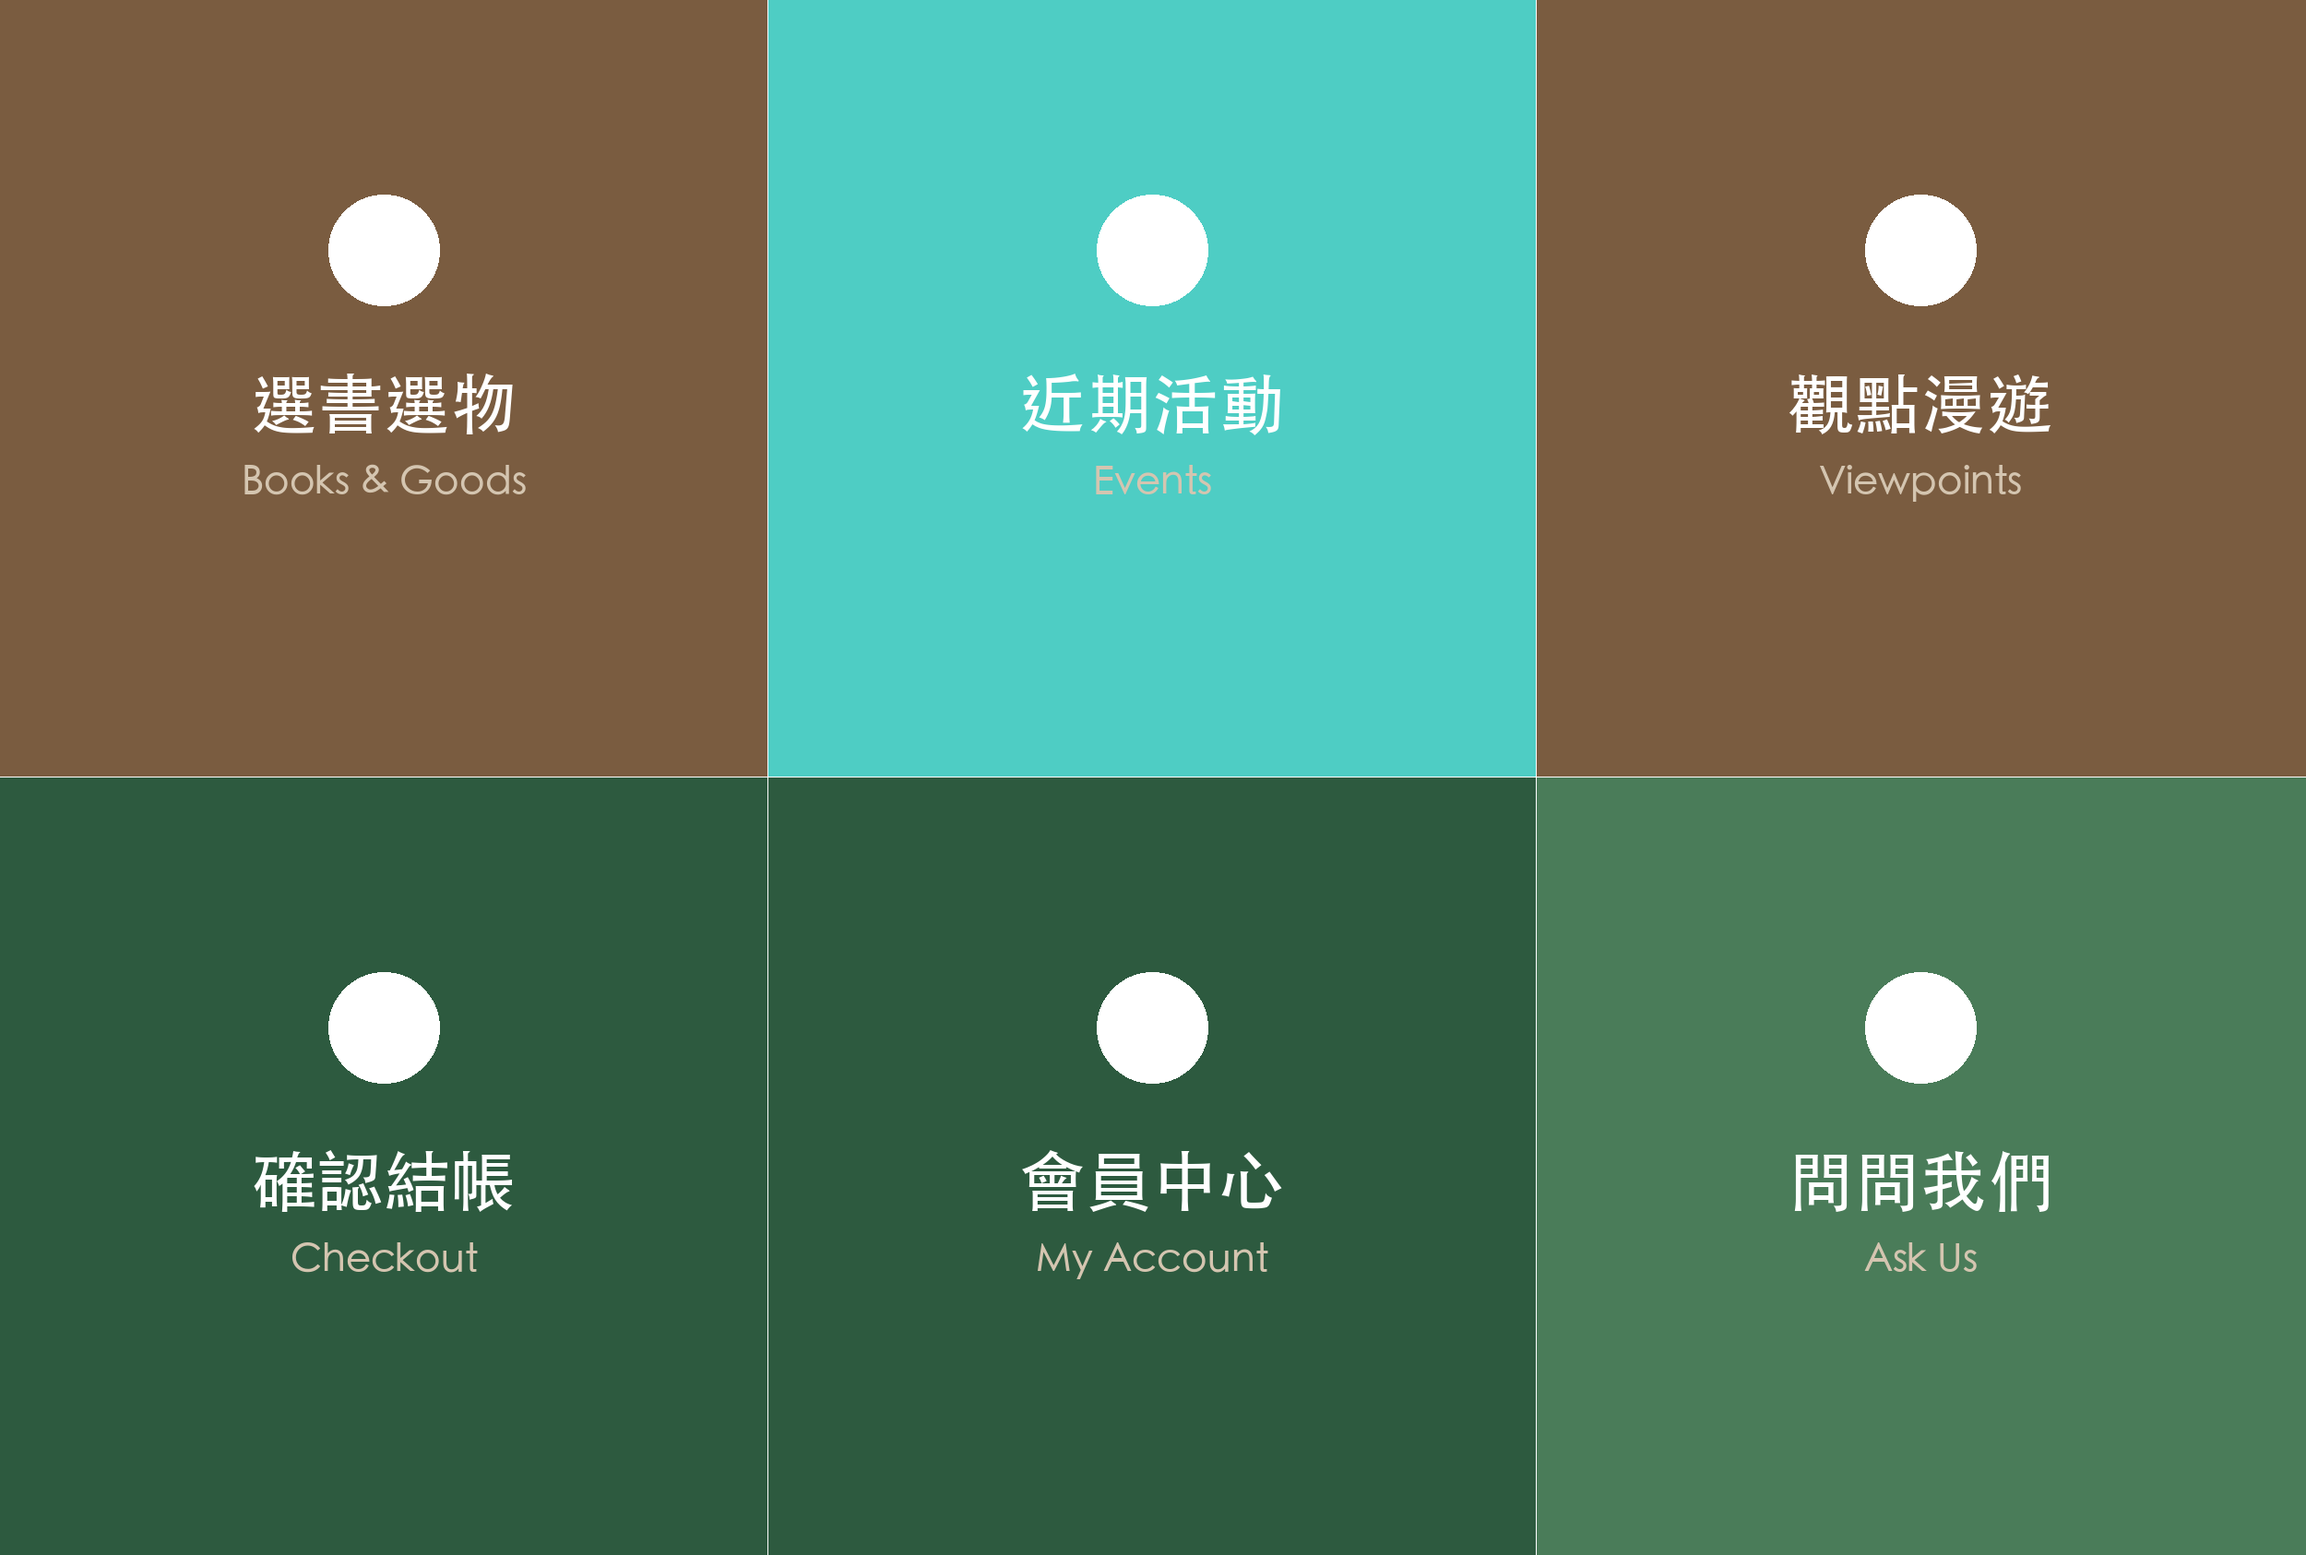
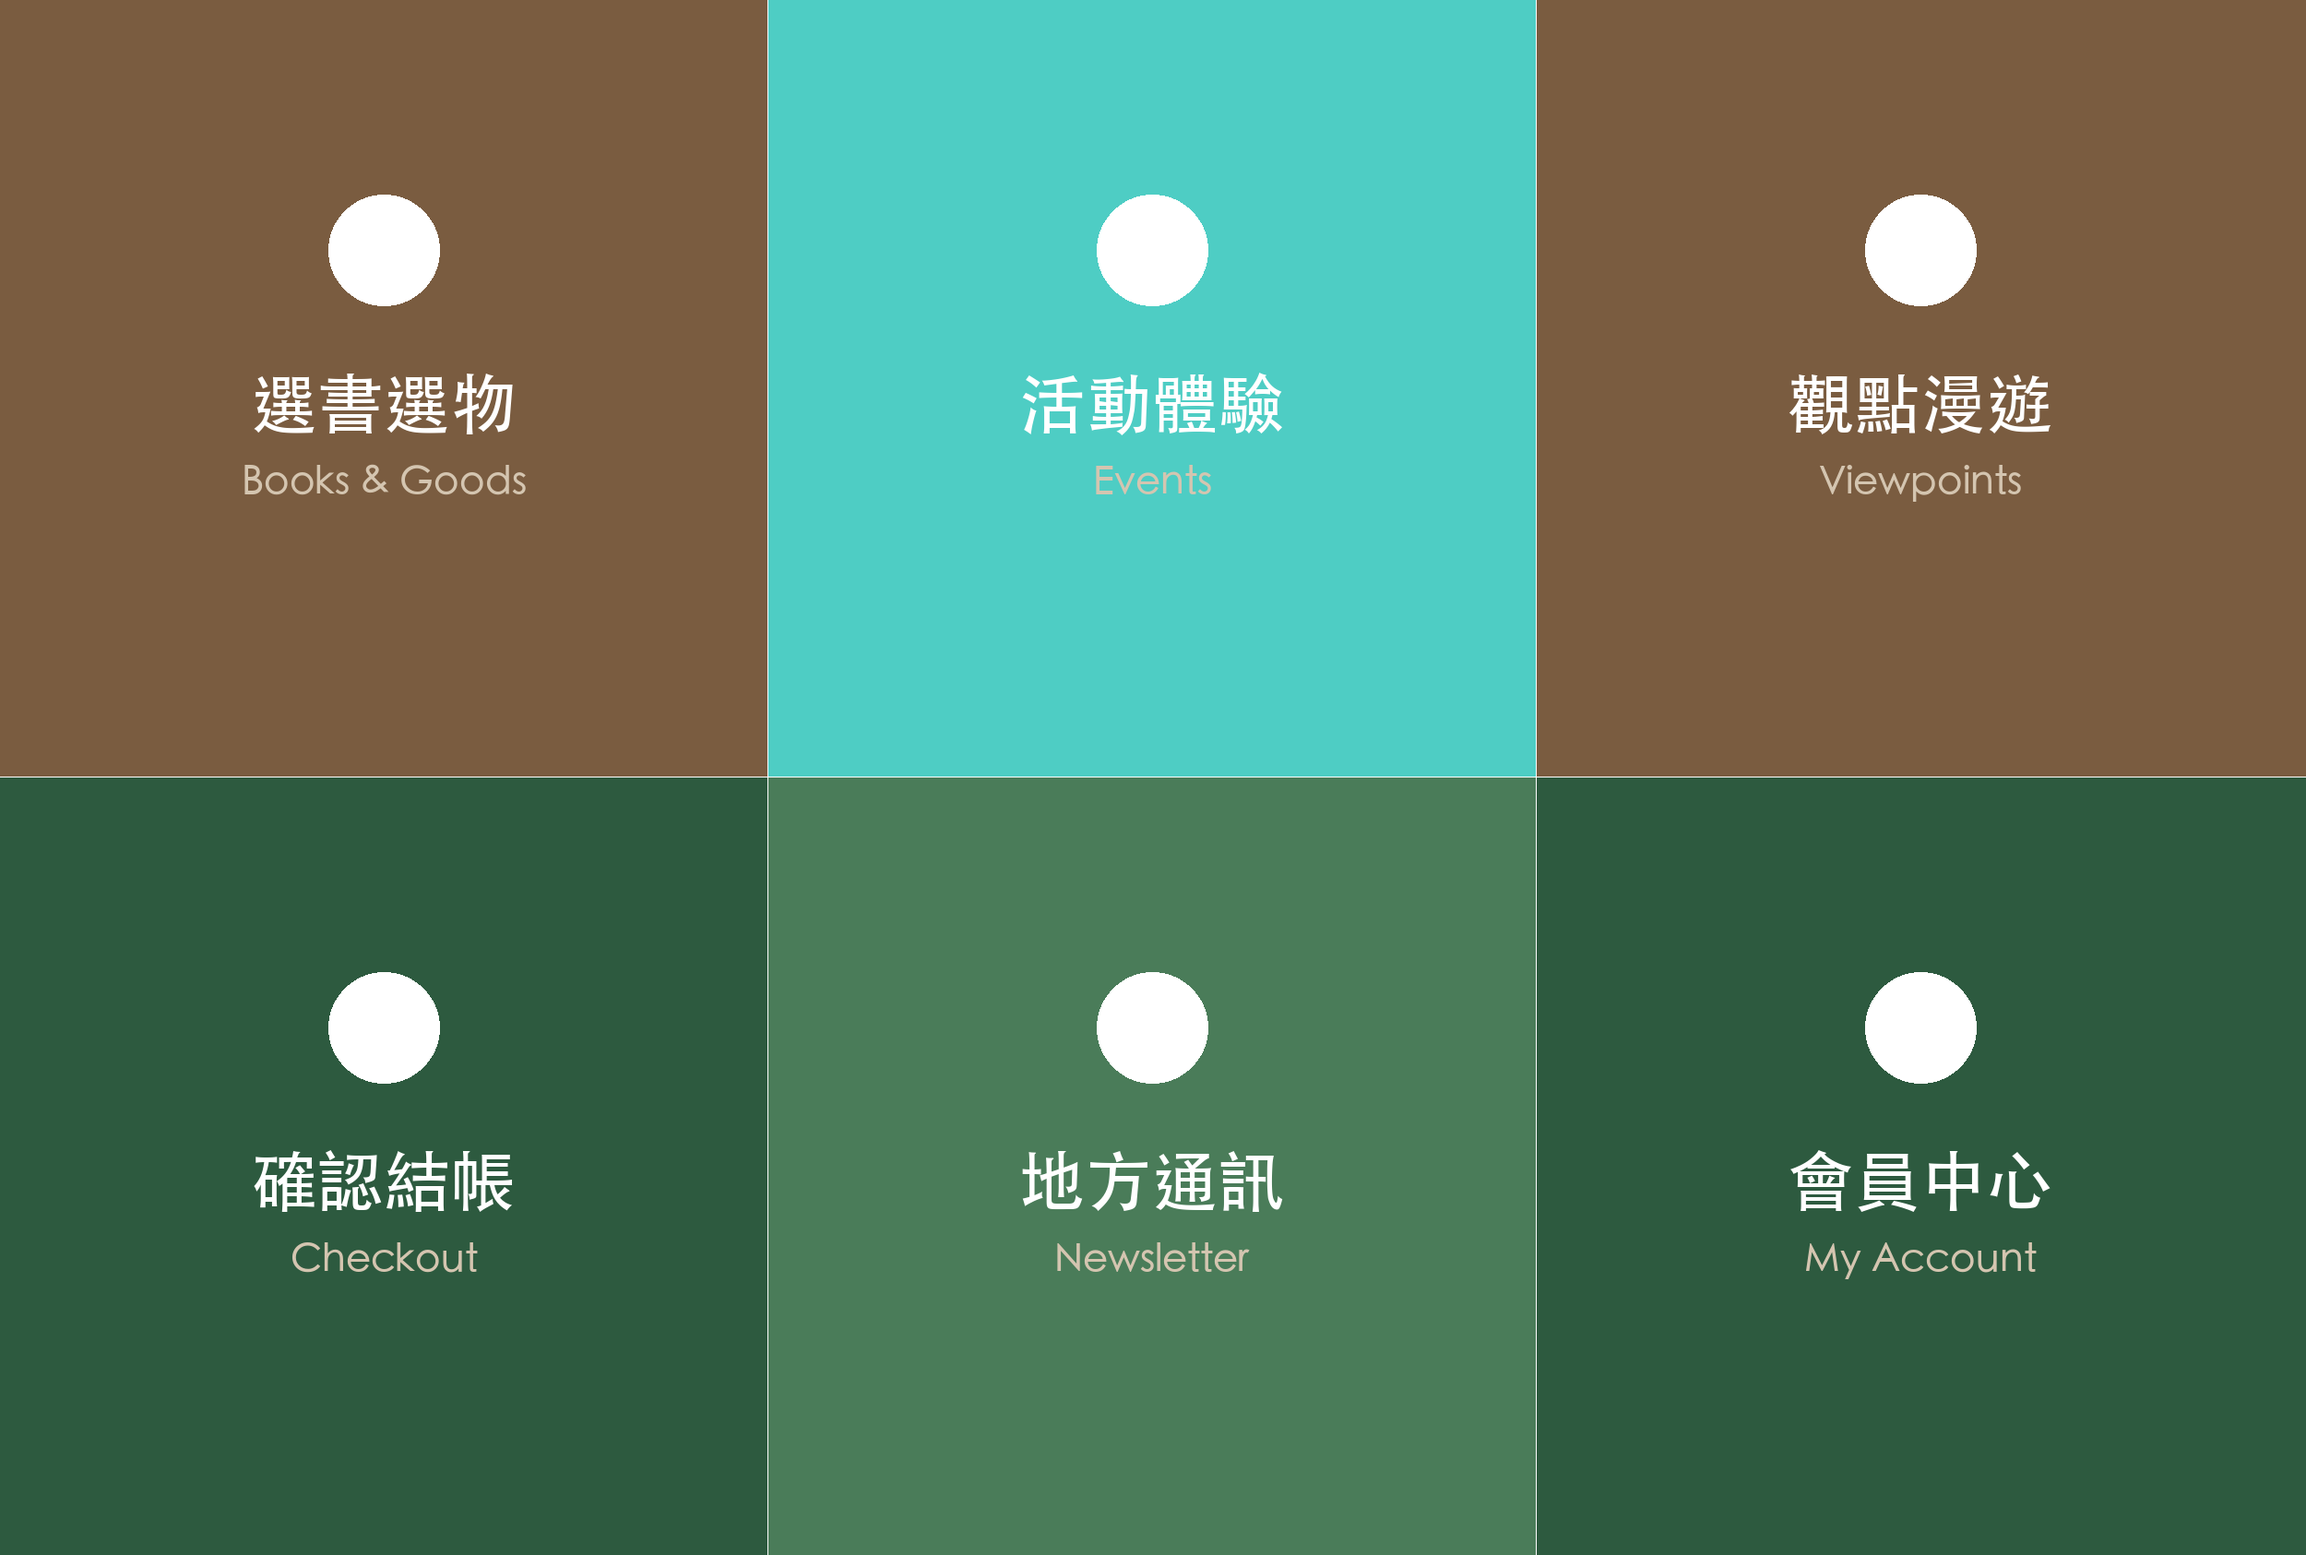
fix: sync/single maxDuration 30→60 秒（DB04 活動同步需更多時間）

diff --git a/scripts/setup-rich-menu.ts b/scripts/setup-rich-menu.ts
@@ -7,6 +7,8 @@
  */
 
 import { messagingApi } from "@line/bot-sdk";
+import * as fs from "fs";
+import * as path from "path";
 
 const TOKEN = process.env.LINE_CHANNEL_ACCESS_TOKEN;
 const LIFF_ID = process.env.NEXT_PUBLIC_LIFF_ID || "2009300819-5OyjRae6";
@@ -18,6 +20,7 @@ if (!TOKEN) {
 }
 
 const client = new messagingApi.MessagingApiClient({ channelAccessToken: TOKEN });
+const blobClient = new messagingApi.MessagingApiBlobClient({ channelAccessToken: TOKEN });
 
 function liffUrl(path: string) {
   return `${LIFF_BASE}/${path}?liff_mode=true`;
@@ -68,13 +71,24 @@ async function main() {
     const richMenuId = result.richMenuId;
     console.log(`✅ Rich Menu 建立成功: ${richMenuId}`);
 
-    // 2. 設為預設 Rich Menu
+    // 2. 上傳 Rich Menu 圖片
+    const imagePath = path.resolve(__dirname, "../public/images/rich-menu.png");
+    if (fs.existsSync(imagePath)) {
+      const imageBuffer = fs.readFileSync(imagePath);
+      const blob = new Blob([imageBuffer], { type: "image/png" });
+      await blobClient.setRichMenuImage(richMenuId, blob);
+      console.log(`✅ 圖片已上傳`);
+    } else {
+      console.error(`⚠  找不到圖片: ${imagePath}`);
+      console.error(`   請先執行: python3 scripts/generate-rich-menu-image.py`);
+      process.exit(1);
+    }
+
+    // 3. 設為預設 Rich Menu
     await client.setDefaultRichMenu(richMenuId);
     console.log(`✅ 已設為預設 Rich Menu`);
 
     console.log(`\n📋 Rich Menu ID: ${richMenuId}`);
-    console.log(`\n⚠  注意：還需要上傳 Rich Menu 圖片（2500x1686 PNG）`);
-    console.log(`   用法：npx tsx scripts/upload-rich-menu-image.ts ${richMenuId} <image-path>`);
     console.log(`\n📱 按鈕配置：`);
     console.log(`   📚 選書選物 → ${liffUrl("liff/shop")}`);
     console.log(`   🎪 活動體驗 → ${liffUrl("liff/events")}`);

diff --git a/app/api/sync/single/route.ts b/app/api/sync/single/route.ts
@@ -5,7 +5,7 @@ import { translateRow } from "@/lib/translate";
 
 const SITE_URL = process.env.NEXT_PUBLIC_SITE_URL || "https://makesense.ink";
 
-export const maxDuration = 30;
+export const maxDuration = 60;
 
 /**
  * POST /api/sync/single — 單筆 Notion → Supabase 同步

diff --git a/CLAUDE.md b/CLAUDE.md
@@ -350,11 +350,16 @@ npm run lint   # ESLint
 ## LINE LIFF 整合（2026/04/14 建立）
 - **模擬器**：`/dev/line-simulator` — LINE 聊天室模擬器，iframe 載入真實頁面帶 `?liff_mode=true`
 - **LIFF 模式偵測**：`LayoutShell.tsx` 讀 URL 參數 `?liff_mode=true` → 隱藏 Header/Footer
-- **Rich Menu 六宮格（不可更改）**：
+- **Rich Menu 六宮格**（2026/04/15 重新設計，LIFF 原生體驗）：
   ```
-  📚 選書選物 → /bookstore    | 🎪 近期活動 → /cultureclub    | 🗺 觀點漫遊 → /viewpoint-stroll
-  🛒 確認結帳 → /checkout     | 👤 會員中心 → /dashboard      | 💬 問問我們 → AI 客服面板
+  📚 選書選物 → /liff/shop       | 🎪 活動體驗 → /liff/events      | 🗺 觀點漫遊 → /liff/viewpoints
+  🛒 確認結帳 → /checkout        | 📮 地方通訊 → /liff/newsletter   | 👤 會員中心 → /liff/member
   ```
+  - /liff/shop：搜尋 + 條碼掃描（html5-qrcode）+ 商品推薦
+  - /liff/events：未來活動卡片列表（過期不顯示）
+  - /liff/viewpoints：GPS 定位 → 鄉鎮篩選 → 觀點列表
+  - /liff/newsletter：最近 20 則文章 + 底部「查看全部」連結
+  - /liff/member：會員資訊 + LINE 綁定 + 快捷連結
 - **來源切換器**：LINE LIFF / Google 地圖 / Facebook / QR Code / 官網正常
 - **購物車持久化**：localStorage（跨 Rich Menu 切換不會清空）+ postMessage 通知模擬器
 - **訂單來源追蹤**：checkout API 接收 `source` 參數（web / liff / telegram / preorder）
